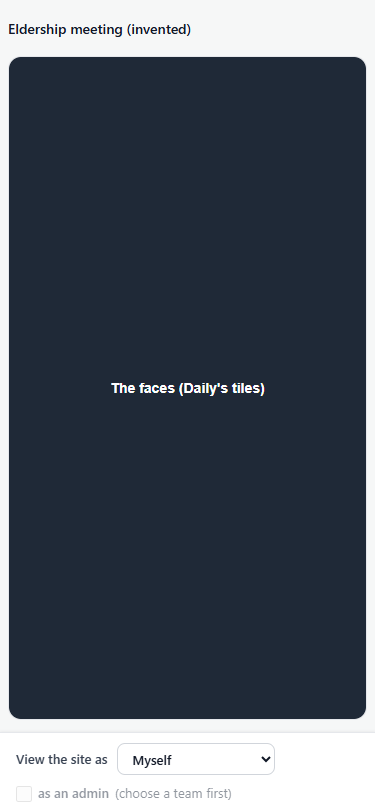
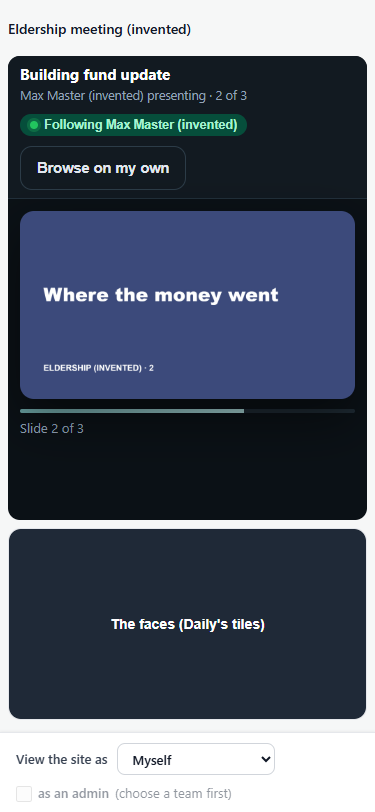
Events: the meeting's Present slides sheet - its own class names (meeting.html's .row/.msg made Close sit faded in a white bar), boxes kept inside on a phone, plain "when the hub goes live" words; leaving a meeting always stops presenting (a beacon to the new presentLeave, which checks the sign-in i

diff --git a/v2/egbc-present.js b/v2/egbc-present.js
@@ -414,6 +414,7 @@
 
     return {
       stop: stop,
+      start: start,
       destroy: function () { alive = false; clearInterval(tick); clearInterval(mtick); if (unsub) unsub(); document.removeEventListener('keydown', onKey); window.removeEventListener('resize', onPlace); window.removeEventListener('scroll', onPlace, true); Object.keys(mels).forEach(function (k) { if (!mels[k].yt) mels[k].v.pause(); }); host.remove(); if (quiz) quiz.destroy(); el.innerHTML = ''; },
       state: function () { return S; }
     };
@@ -468,14 +469,15 @@
     '@media (max-width:760px){body.presenting .pz-mcall{flex:0 0 190px!important;height:190px;min-height:0!important}}' +
     '.pz-mbtn{position:absolute;top:10px;left:50%;transform:translateX(-50%);z-index:4;min-height:44px;padding:0 18px;border-radius:999px;border:0;background:#3d6263;color:#fff;font:700 14.5px Inter,sans-serif;box-shadow:0 6px 18px rgba(0,0,0,.25);cursor:pointer}' +
     'body.presenting .pz-mbtn{display:none}' +
+    '.pz-msheet,.pz-msheet *{box-sizing:border-box}' +
     '.pz-msheet{position:fixed;inset:0;z-index:20;background:rgba(5,8,11,.6);display:flex;align-items:flex-end;justify-content:center}' +
-    '.pz-msheet .in{background:#121a21;color:#e2e8f0;border:1px solid #22303b;border-radius:16px 16px 0 0;width:100%;max-width:560px;max-height:88vh;overflow:auto;padding:18px 16px calc(18px + env(safe-area-inset-bottom));font:400 15px/1.45 Inter,sans-serif}' +
-    '@media (min-width:600px){.pz-msheet{align-items:center}.pz-msheet .in{border-radius:16px}}' +
-    '.pz-msheet h3{margin:0 0 4px;color:#fff;font:800 19px Inter,sans-serif}.pz-msheet .s{color:#94a3b8;font-size:13.5px;margin:0 0 12px}' +
-    '.pz-msheet .deck{display:flex;align-items:center;gap:10px;width:100%;min-height:52px;margin:0 0 8px;padding:10px 12px;border:1px solid #2c3c48;border-radius:12px;background:#0b1116;color:#e2e8f0;font:600 15px Inter,sans-serif;text-align:left;cursor:pointer}' +
+    '.pz-msheet .pz-sin{background:#121a21;color:#e2e8f0;border:1px solid #22303b;border-radius:16px 16px 0 0;width:100%;max-width:560px;max-height:88vh;overflow:auto;padding:18px 16px calc(18px + env(safe-area-inset-bottom));font:400 15px/1.45 Inter,sans-serif}' +
+    '@media (min-width:600px){.pz-msheet{align-items:center}.pz-msheet .pz-sin{border-radius:16px}}' +
+    '.pz-msheet h3{margin:0 0 4px;color:#fff;font:800 19px Inter,sans-serif}.pz-msheet .pz-ss{color:#94a3b8;font-size:13.5px;margin:0 0 12px}' +
+    '.pz-msheet .pz-deck{display:flex;align-items:center;gap:10px;width:100%;min-height:52px;margin:0 0 8px;padding:10px 12px;border:1px solid #2c3c48;border-radius:12px;background:#0b1116;color:#e2e8f0;font:600 15px Inter,sans-serif;text-align:left;cursor:pointer}' +
     '.pz-msheet label{display:block;font:600 13px Inter,sans-serif;color:#cbd5e1;margin:12px 0 4px}' +
     '.pz-msheet input[type=text],.pz-msheet input[type=url]{width:100%;min-height:44px;border-radius:10px;border:1px solid #2c3c48;background:#0b1116;color:#e2e8f0;padding:0 12px;font:400 15px Inter,sans-serif}' +
-    '.pz-msheet input[type=file]{color:#cbd5e1;max-width:100%}.pz-msheet .row{display:flex;gap:8px;flex-wrap:wrap;margin-top:14px}.pz-msheet .msg{min-height:20px;margin:10px 0 0;color:#fde68a;font-size:14px}';
+    '.pz-msheet input[type=file]{color:#cbd5e1;max-width:100%}.pz-msheet .pz-srow{display:flex;gap:8px;flex-wrap:wrap;margin-top:14px}.pz-msheet .pz-smsg{min-height:20px;margin:10px 0 0;color:#fde68a;font-size:14px}';
 
   function need(srcUrl, test) {
     if (test()) return Promise.resolve();
@@ -510,9 +512,12 @@
     }
     function teardown() { if (cur) { cur.ctl.destroy(); cur = null; } loading = ''; el.className = ''; layout(false); }
     /* this deck, on this screen: the same pictures in the same order as everyone */
+    var startWhenLoaded = '';
     function showDeck(deckId, autoStart) {
-      if (cur && cur.deckId === deckId && cur.may === mayNow()) return Promise.resolve();
-      if (loading === deckId) return Promise.resolve();
+      /* "present this deck" when it is already on this screen (as a viewer): present it, don't drop the ask */
+      if (cur && cur.deckId === deckId && cur.may === mayNow()) { if (autoStart && mayNow()) cur.ctl.start(); return Promise.resolve(); }
+      /* ... or when it is still loading as a viewer: start it when it lands */
+      if (loading === deckId) { if (autoStart) startWhenLoaded = deckId; return Promise.resolve(); }
       loading = deckId;
       return need('https://www.gstatic.com/firebasejs/10.12.2/firebase-storage-compat.js', function () { return !!(global.firebase && firebase.storage); })
         .then(function () { return db.collection('presentDecks').doc(deckId).get(); })
@@ -523,6 +528,7 @@
         })
         .then(function (r) {
           if (!alive || loading !== deckId) return;
+          if (startWhenLoaded === deckId) { autoStart = true; startWhenLoaded = ''; }
           /* a viewer's slides came after the presenting had stopped (the say-so and the stop can arrive apart): nothing to show */
           if (!autoStart && !(S && S.presenterUid && S.deckId === deckId)) { loading = ''; if (!cur) teardown(); return; }
           if (cur) cur.ctl.destroy();
@@ -610,11 +616,11 @@
     function drawPeople() {
       var box = sheet && sheet.querySelector('[data-mpeople]'); if (!box) return;
       var a = allowed[0];
-      box.innerHTML = '<p class="s" style="margin:14px 0 8px">Let someone else present</p>' +
-        (a ? '<div class="deck" data-mallowed="' + esc(a.uid) + '" style="cursor:default"><span style="flex:1">' + esc(a.name || 'Someone') + ' may present</span><button class="pz-btn" data-mtakeback="' + esc(a.uid) + '">Take it back</button></div>' : '') +
+      box.innerHTML = '<p class="pz-ss" style="margin:14px 0 8px">Let someone else present</p>' +
+        (a ? '<div class="pz-deck" data-mallowed="' + esc(a.uid) + '" style="cursor:default"><span style="flex:1">' + esc(a.name || 'Someone') + ' may present</span><button class="pz-btn" data-mtakeback="' + esc(a.uid) + '">Take it back</button></div>' : '') +
         (here.filter(function (p) { return !a || p.uid !== a.uid; }).map(function (p) {
-          return '<button class="deck" data-mlet="' + esc(p.uid) + '" data-name="' + esc(p.name) + '"><span style="flex:1">Let ' + esc(p.name || 'them') + ' present</span></button>';
-        }).join('') || (a ? '' : '<p class="s">Nobody else here yet.</p>'));
+          return '<button class="pz-deck" data-mlet="' + esc(p.uid) + '" data-name="' + esc(p.name) + '"><span style="flex:1">Let ' + esc(p.name || 'them') + ' present</span></button>';
+        }).join('') || (a ? '' : '<p class="pz-ss">Nobody else here yet.</p>'));
       box.querySelectorAll('[data-mlet]').forEach(function (b) { b.onclick = function () { b.disabled = true; letPresent(b.getAttribute('data-mlet'), b.getAttribute('data-name')); }; });
       box.querySelectorAll('[data-mtakeback]').forEach(function (b) { b.onclick = function () { b.disabled = true; takeBack(b.getAttribute('data-mtakeback')).catch(function () {}); }; });
     }
@@ -625,8 +631,8 @@
       if (!mayNow()) return;
       close();
       sheet = document.createElement('div'); sheet.className = 'pz-msheet'; sheet.setAttribute('role', 'dialog'); sheet.setAttribute('aria-label', 'Present slides');
-      sheet.innerHTML = '<div class="in"><h3>Present slides</h3><p class="s">' + (m.host ? 'Everyone in the meeting sees your slides, large, with the faces beside them. You get your notes and what’s next.' : 'The host has let you present. Everyone sees your slides; the host can take it back at any time.') + '</p><div data-mlist><p class="s">Loading…</p></div>' +
-        '<div data-madd></div>' + (m.host ? '<div data-mpeople></div>' : '') + '<div class="row"><button class="pz-btn" data-mclose>Close</button></div></div>';
+      sheet.innerHTML = '<div class="pz-sin"><h3>Present slides</h3><p class="pz-ss">' + (m.host ? 'Everyone in the meeting sees your slides, large, with the faces beside them. You get your notes and what’s next.' : 'The host has let you present. Everyone sees your slides; the host can take it back at any time.') + '</p><div data-mlist><p class="pz-ss">Loading…</p></div>' +
+        '<div data-madd></div>' + (m.host ? '<div data-mpeople></div>' : '') + '<div class="pz-srow"><button class="pz-btn" data-mclose>Close</button></div></div>';
       document.body.appendChild(sheet);
       sheet.querySelector('[data-mclose]').onclick = close;
       sheet.onclick = function (e) { if (e.target === sheet) close(); };
@@ -639,18 +645,18 @@
         var mine = s.docs.map(function (d) { return Object.assign({ id: d.id }, d.data()); })
           .filter(function (x) { return x.status === 'ready'; });
         if (!sheet) return;
-        list.innerHTML = mine.length ? '<p class="s" style="margin:0 0 8px">This meeting’s slides</p>' + mine.map(function (x) {
-          return '<button class="deck" data-mdeck="' + esc(x.id) + '"><span style="flex:1">' + esc(x.name || 'Slides') + '</span><span style="color:#94a3b8;font-weight:500">' + (+x.count || 0) + ' slides ▶</span></button>'; }).join('') : '';
+        list.innerHTML = mine.length ? '<p class="pz-ss" style="margin:0 0 8px">This meeting’s slides</p>' + mine.map(function (x) {
+          return '<button class="pz-deck" data-mdeck="' + esc(x.id) + '"><span style="flex:1">' + esc(x.name || 'Slides') + '</span><span style="color:#94a3b8;font-weight:500">' + (+x.count || 0) + ' slides ▶</span></button>'; }).join('') : '';
         list.querySelectorAll('[data-mdeck]').forEach(function (b) { b.onclick = function () { close(); showDeck(b.getAttribute('data-mdeck'), true); }; });
       }, function () { if (list) list.innerHTML = ''; });
       /* Until the hub goes live nothing is uploaded (its storage is not yet private) */
       need(BASE + 'egbc-launch.js?v=202610141700', function () { return !!global.EGBCLaunch; }).then(function () { return EGBCLaunch.check(); }).then(function (x) { return !!(x && x.locked); }, function () { return false; }).then(function (ok) {
         if (!sheet) return;
-        if (!ok) { add.innerHTML = '<p class="s" data-mheld>Slides can be added when the hub goes live. Until then the hub’s storage is not yet private.</p>'; return; }
+        if (!ok) { add.innerHTML = '<p class="pz-ss" data-mheld>You can add slides when the hub goes live.</p>'; return; }
         add.innerHTML = '<label for="mName">Add slides: a name</label><input type="text" id="mName" maxlength="120" placeholder="Building fund update">' +
           '<label for="mFile">A PowerPoint file (.pptx, up to 100 MB)</label><input type="file" id="mFile" accept=".pptx,application/vnd.openxmlformats-officedocument.presentationml.presentation">' +
           '<label for="mLink">or its OneDrive link (up to 1 GB)</label><input type="url" id="mLink" placeholder="https://…sharepoint.com/…">' +
-          '<div class="row"><button class="pz-btn main" data-mgo>Add and present</button></div><p class="msg" data-mmsg role="status"></p>';
+          '<div class="pz-srow"><button class="pz-btn main" data-mgo>Add and present</button></div><p class="pz-smsg" data-mmsg role="status"></p>';
         add.querySelector('[data-mgo]').onclick = addDeck;
       });
     }
@@ -685,10 +691,27 @@
 
     drawButton();
     /* leaving the meeting (the page closes, or Daily's "left-meeting"): stop presenting, and the host's say-so ends with them */
+    /* LEAVING (22 Oct): a closing page is gone before the database library
+       sends its writes (they go a moment later), and a request carrying a
+       sign-in header can't leave a closing page either. A BEACON can
+       (navigator.sendBeacon: plain text, no preflight): it goes to the hub's
+       presentLeave, which checks the sign-in and does only what this person
+       may do (stop their presenting, take back the say-so they gave, remove
+       their "who is here"). The library's own write stays as a second try.
+       The sign-in is kept fresh beforehand: there's no time to fetch one then. */
+    var tok = '';
+    function freshToken() { var u = EGBCAuth.user(); if (u && u.getIdToken) u.getIdToken().then(function (t) { tok = t; }, function () {}); }
+    freshToken(); timers.push(setInterval(freshToken, 20 * 60000));
+    function leaveUrl() {
+      var st = (db._delegate && db._delegate._settings) || {}, pid = db.app.options.projectId;
+      /* the same choice egbc-auth.js makes for its functions */
+      return /^(localhost|127\.0\.0\.1)(:|$)/.test(st.host || '') ? 'http://localhost:' + (location.port === '5601' ? 5102 : 5101) + '/' + pid + '/europe-west2/presentLeave'
+        : 'https://europe-west2-' + pid + '.cloudfunctions.net/presentLeave';
+    }
     var left = false;
     var onLeave = function () {
       if (left) return; left = true;
-      /* all in ONE commit: a closing page may be gone before a second write goes */
+      if (tok && navigator.sendBeacon) { try { navigator.sendBeacon(leaveUrl(), new Blob([JSON.stringify({ idToken: tok, key: key })], { type: 'text/plain' })); } catch (e) {} }
       var b = db.batch(), stopping = S && S.presenterUid === me.uid;
       /* the host's say-so ends with them, and so does that person's presenting */
       if (m.host) allowed.filter(function (a) { return a.by === me.uid; }).forEach(function (a) {
@@ -696,8 +719,8 @@
         b.delete(db.collection('presentAllow').doc(key + '_' + a.uid));
       });
       if (stopping) b.update(ref, { presenterUid: '', presenterName: '', blank: false, updatedBy: me.uid });
-      b.delete(hereRef);
       b.commit().catch(function () {});
+      hereRef.delete().catch(function () {});
     };
     window.addEventListener('pagehide', onLeave);
     if (m.frame && m.frame.on) m.frame.on('left-meeting', onLeave);

diff --git a/v2/functions/present.js b/v2/functions/present.js
@@ -22,7 +22,8 @@
    The converter's address is CONVERTER_URL. On the emulator only, a test
    may point it at its own stand-in (presentSettings/test.converterUrl).
    =================================================================== */
-import { onCall, HttpsError } from 'firebase-functions/v2/https';
+import { onCall, onRequest, HttpsError } from 'firebase-functions/v2/https';
+import { getAuth } from 'firebase-admin/auth';
 import { onSchedule } from 'firebase-functions/v2/scheduler';
 import { getFirestore } from 'firebase-admin/firestore';
 import { getStorage } from 'firebase-admin/storage';
@@ -175,6 +176,37 @@ export async function runPresentSweep({ db: dbi, bucket, today }) {
   }
   return gone;
 }
+/* LEAVING A MEETING (22 Oct): a closing page can't finish a database write
+   (the library sends it a moment later), but it can send a beacon
+   (navigator.sendBeacon: plain text, no sign-in header, so no preflight).
+   This takes { idToken, key } and does ONLY what that person could do
+   themselves: stop presenting if they are the presenter (and if someone
+   they let present is presenting), take back the say-so they gave, and
+   remove their own "who is here". Nothing else, nobody else's. */
+export async function leaveMeeting({ db: dbi, uid, key }) {
+  if (typeof key !== 'string' || !/^mtg_[^/]{1,300}$/.test(key) || !uid) return { done: false };
+  const nowRef = dbi.collection('presentNow').doc(key);
+  const s = (await nowRef.get()).data();
+  const given = await dbi.collection('presentAllow').where('key', '==', key).where('by', '==', uid).get();
+  const b = dbi.batch();
+  let stop = !!(s && s.presenterUid === uid);
+  given.docs.forEach((d) => { if (s && s.presenterUid === d.data().uid) stop = true; b.delete(d.ref); });
+  if (stop) b.update(nowRef, { presenterUid: '', presenterName: '', blank: false, updatedBy: uid });
+  b.delete(dbi.collection('presentHere').doc(key + '_' + uid));
+  await b.commit();
+  return { done: true, stopped: stop, takenBack: given.size };
+}
+export const presentLeave = onRequest({ region: REGION, invoker: 'public', memory: '256MiB' }, async (req, res) => {
+  if (req.method !== 'POST') { res.status(405).end(); return; }
+  try {
+    const raw = typeof req.body === 'string' ? req.body : (req.rawBody ? req.rawBody.toString('utf8') : JSON.stringify(req.body || {}));
+    const { idToken, key } = JSON.parse(raw || '{}');
+    const t = await getAuth().verifyIdToken(String(idToken || ''));
+    const r = await leaveMeeting({ db: db(), uid: t.uid, key: String(key || '') });
+    res.status(r.done ? 204 : 400).end();
+  } catch (e) { res.status(401).end(); }
+});
+
 export const presentSweep = onSchedule({ region: REGION, schedule: '15 4 * * *', timeZone: 'Europe/London', retryCount: 1 }, async () => {
   await runPresentSweep({ db: db(), bucket: getStorage().bucket() });
 });

diff --git a/v2/screenshots/events/meeting-harness.html b/v2/screenshots/events/meeting-harness.html
@@ -5,7 +5,7 @@
 <meta name="viewport" content="width=device-width, initial-scale=1.0, viewport-fit=cover">
 <title>Meeting (test stand-in)</title>
 <!-- A STAND-IN FOR meeting.html (the main window's page) in the events
-     window's checks: the same layout CSS, a pretend call in #stage (no Daily
+     window's checks: meeting.html's own CSS, a pretend call in #stage (no Daily
      in a test), and the hook exactly as F-247 agrees it, with its scripts:
      Storage before egbc-auth.js (so the hub connects it), and egbc-present.js.
        ?room=Eldership&event=<id>&host=1 -->
@@ -17,14 +17,19 @@
 <script src="../../egbc-auth.js"></script>
 <!-- the hook, script 2 of 2 -->
 <script src="../../egbc-present.js"></script>
+<!-- meeting.html's OWN styles, read from it as it is now (so a clash between
+     its classes - .row, .msg, .btn - and Present's shows up here too; 22 Oct:
+     the sheet's Close sat faded in meeting.html's white .row) -->
+<script>
+  (function () {
+    var x = new XMLHttpRequest(); x.open('GET', '../../meeting.html', false); x.send();
+    var m = /<style>([\s\S]*?)<\/style>/.exec(x.responseText || '');
+    if (!m) throw new Error('meeting.html has no <style> block to copy');
+    var st = document.createElement('style'); st.id = 'meeting-css'; st.textContent = m[1]; document.head.appendChild(st);
+  })();
+</script>
 <style>
-  html,body{height:100%}
-  body{margin:0;padding:0 12px 12px;background:#f6f7f7;font-family:Inter,system-ui,sans-serif;font-size:14px;color:#374151;display:flex;flex-direction:column;box-sizing:border-box}
   #bar{height:56px;flex:0 0 56px;display:flex;align-items:center;font-weight:600;color:#111827}
-  #stage{flex:1;min-height:420px;border-radius:12px;overflow:hidden;isolation:isolate;clip-path:inset(0 round 12px);background:#fff;border:1px solid #e5e7eb;position:relative}
-  #stage iframe{position:absolute;inset:0;width:100%;height:100%;border:0;border-radius:12px}
-  body.in-call #stage{min-height:0}
-  @media(max-width:700px){body{padding:0 8px 8px}}
 </style>
 </head>
 <body class="in-call">

diff --git a/v2/session-planner.html b/v2/session-planner.html
@@ -507,7 +507,7 @@
          in one step by the converter, so everyone stays in step. Held until
          switch-over: until then Storage is readable signed out. */
       pptx: function () {
-        if (!PPTX_OK) return '<p id="pptxHeld">PowerPoint slides can be added when the hub goes live. Until then the hub\u2019s storage is not yet private.</p>';
+        if (!PPTX_OK) return '<p id="pptxHeld">You can add PowerPoint slides when the hub goes live.</p>';
         return '<label class="l" for="stFile">The PowerPoint file (.pptx)</label><input class="inp" type="file" id="stFile" accept=".pptx,application/vnd.openxmlformats-officedocument.presentationml.presentation" style="padding-top:8px">' +
           '<p class="said">Or fetch it from OneDrive or SharePoint (Share it as \u201CAnyone with the link can view\u201D):</p><input class="inp" id="stU" placeholder="https://1drv.ms/… or https://…sharepoint.com/…">' +
           '<label class="l" for="stN">Name</label><input class="inp" id="stN" placeholder="e.g. EJ03 slides"><p class="said">Keynote or Google Slides? Save it as PowerPoint first. The slides and your speaker notes come from the file.</p>';

diff --git a/v2/functions/index.js b/v2/functions/index.js
@@ -791,7 +791,7 @@ export { hqMembershipClaims, hqMyChurches } from './hq-directory.js';
 /* The two welcome emails the hub sends by itself: a confirmed subscriber, and a hello on "I'm new here" (comms window; plan G). */
 export { welcomeSubscriber, welcomeNewcomer } from './welcome-mail.js';
 /* Present: a PowerPoint into slides and notes, from a file or a OneDrive link; the 30-day sweep (F-242), the events window's file. */
-export { presentConvert, presentFromLink, presentSweep } from './present.js';
+export { presentConvert, presentFromLink, presentSweep, presentLeave } from './present.js';
 export { m365Start, m365Callback, m365Status, m365Disconnect } from './microsoft.js';
 export { quizStart, quizOpen, quizReveal, quizPhase, quizKick, quizEnd, quizJoin, quizAnswer, quizSweep } from './quiz.js';
 export { cateringSync, arrivalCheck } from './rooms-day.js';

diff --git a/v2/present.html b/v2/present.html
@@ -15,7 +15,7 @@
 <script src="egbc-church.js?v=202610192330"></script>
 <script src="egbc-events.js?v=202610221300"></script>
 <script src="egbc-quiz.js?v=202610211900"></script>
-<script src="egbc-present.js?v=202610220030"></script>
+<script src="egbc-present.js?v=202610221330"></script>
 <link href="https://fonts.googleapis.com/css2?family=Inter:wght@400;500;600;700;800&display=swap" rel="stylesheet">
 <style>
   html,body{margin:0;height:100%;background:#0b1116;color:#e2e8f0;font-family:Inter,system-ui,sans-serif}

diff --git a/v2/FINDINGS-events.md b/v2/FINDINGS-events.md
@@ -10192,3 +10192,57 @@ Martin wants the safeguarding version of the Live risk register (risk.html), nex
 **Found, not mine (for the main window):** `public-mail.test.mjs` is 40/45. B1/B2 send to an invented address through the mail sender, and `functions/mail-route.js` now refuses it ("Recipient not known to the hub"). That's from the hubSend change; no rules are involved, and it fails the same without this fix.
 
 **Deploy:** nothing. The rules go live when the hub does.
+
+### F-267 — Present in a meeting: the sheet's look, plain words, and leaving that always stops (the events window, 22 Oct)
+
+**1. The sheet looked broken** (the reviewing window: Close faded inside a white bar).
+- **The cause:** the sheet used ordinary class names, `row` and `msg`, that meeting.html styles for its own page:
+  - `.row` is a white bordered box
+  - `.msg` is a full-size overlay that would have covered the sheet whenever it showed a message
+- **The fix:** every class in the sheet now has its own `pz-` name.
+- **Also fixed:** on a phone the text boxes ran past the sheet's edge. The sheet isn't inside the engine's `.pz` block, so it lacked `box-sizing`; it has its own now.
+- **Why the tests missed it:** the stand-in page didn't carry meeting.html's styles. It now **reads meeting.html's own `<style>` as it loads**, so any future clash shows up there too.
+- **New checks,** at computer and phone size, with the sheet open, both before go-live and with slides, add and people:
+  - the panel is dark
+  - no row in it is white
+  - Close is clear, not faded, and 44 px tall
+  - the status line isn't an overlay
+  - **nothing inside sticks out past the panel**
+  - it's all on screen
+  - nothing scrolls sideways
+- **Pictures:** `meeting-sheet-held-desk.png`, `-375.png`, `meeting-sheet-host-desk.png`, `-375.png`.
+
+**2. Plain words:** "You can add slides when the hub goes live." (the sheet), and "You can add PowerPoint slides when the hub goes live." (the session planner). There's no more "storage is not yet private"; the tests check those words are gone.
+
+**3. Leaving the meeting now always stops the presenting,** found while testing 1.
+- The page sent the stop through the database library, which sends writes a moment later; **a closing page is gone first.** Yesterday's passes were luck in that race.
+- **Tried and not enough:**
+  - a single commit
+  - a request that outlives the page (`fetch` keepalive): it carries a sign-in header to another address, so the browser must ask permission first, and a closing page can't
+- **What works:** a **beacon** (`navigator.sendBeacon`: plain text, no permission step) to a new small function, **`presentLeave`**.
+  - It checks the sign-in token itself, then does **only what that person may do anyway:** stop their own presenting, take back the say-so they gave (stopping that person's presenting), and remove their own "who is here".
+  - The library's write stays as a second try.
+  - The sign-in token is kept fresh in advance, because there's no time to get one while closing.
+- **Also fixed:**
+  - "who is here" is now deleted on its own, so a missing record can't sink the stop; its rule accepts deleting one that's already gone
+  - "present this deck" is no longer dropped when the same deck is already showing, or still loading, as a viewer (the cause of yesterday's one-off timing red); the engine gained `start()`
+
+**Proved, one test at a time, more than 3 GB free:**
+- **Rule Zero:**
+
+  | Test | Result |
+  |---|---|
+  | present-meeting | 58/58, twice, and once more after the last fix |
+  | present | 55/55 |
+  | present-quiz | 39/39 |
+  | rules | 1769/1769 |
+
+- **Breaks, 2 of 2 caught:**
+  - the sheet's row named `row` again (the white bar: the look checks fail at both sizes)
+  - no box-sizing (the full sheet fails at both sizes)
+- **Leaving, before the beacon:** section 6 ("she leaves while presenting: it stops") failed 3 times out of 3. With the beacon it passes every time.
+
+**Deploy:**
+- **The reviewer:** the new function `presentLeave` (HTTPS, public invoker; it checks the sign-in itself). **No secret.** The page change goes live with the push.
+- **The main window:** please bump meeting.html to `egbc-present.js?v=202610221330`.
+- **The main window, later:** egbc-auth.js could share its functions address (`FUNCTIONS_BASE`); the hook works it out the same way meanwhile.
